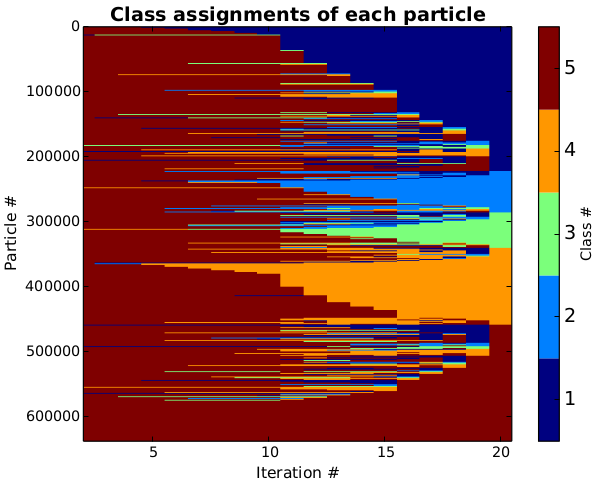
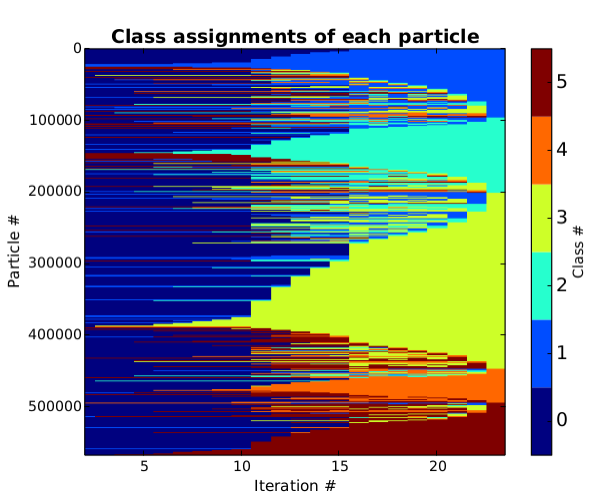
bug fix carpetplot

diff --git a/scripts/class-wiz.py b/scripts/class-wiz.py
@@ -127,14 +127,12 @@ print('Plots will be generated for the following columns:', checklistcol)
 ## Initial colorbar
 fig = plt.figure()
 ax1 = fig.add_axes([0.05, 0.80, 0.9, 0.15])
-
-cmap = plt.get_cmap('jet', int(classes))
-norm = matplotlib.colors.Normalize(vmin=1, vmax=int(classes)+1)
+cmap = plt.get_cmap('jet', int(classes)+1)
+norm = matplotlib.colors.Normalize(vmin=1, vmax=int(classes)+2)
 #ticks = np.arange(1, int(classes)+1)
 cb1 = matplotlib.colorbar.ColorbarBase(ax1, cmap=cmap, norm=norm, orientation='horizontal')
-
 #colorbar stuff
-labels = np.arange(1, classes+1)
+labels = np.arange(0, classes+2)
 #cb1 = plt.colorbar(mat, ticks=labels)
 loc = labels + .5
 cb1.set_ticks(loc)
@@ -171,6 +169,8 @@ for datafile in iterationlist:
      			for l in f:
 	 			if '@' in l:
 					groupnum = l.split()[classcolumn]	## Class number
+					if int(groupnum) > int(classes):
+							groupnum = 0
 					micrograph = l.split()[miccolumn]  	## Micrograph name
 					particlename = l.split()[particolumn] 	## Particle Name
 
@@ -241,16 +241,16 @@ if len(set(rotation[0])) == 1:
 if len(set(rotation[0])) > 1:
 
 #Rotational
-	cmap = plt.get_cmap('jet', int(classes))
+	cmap = plt.get_cmap('jet', int(classes)+1)
 	plt.figure(num=None, dpi=80, facecolor='white')
 	plt.title('RotationalAccuracy', fontsize=16, fontweight='bold')
 	plt.xlabel('Iteration #', fontsize=13)
 	plt.ylabel('RotationalAccuracy', fontsize=13)
 	plt.grid()
-	colors = np.arange(0, int(classes))
+	colors = np.arange(1, int(classes)+1)
 	d = 0;
 	for c, r in zip(colors, rotation):
-		d = c+1
+		d = c
 		plt.plot(r[:], linewidth=3, color=cmap(c), label='Class %s'%d)
 	ticks = np.arange(2, iterations)
 	plt.xlim(2, iterations)
@@ -259,16 +259,16 @@ if len(set(rotation[0])) > 1:
 	#plt.show()
 
 #Translational
-	cmap = plt.get_cmap('jet', int(classes))
+	cmap = plt.get_cmap('jet', int(classes)+1)
 	plt.figure(num=None, dpi=80, facecolor='white')
 	plt.title('TranslationalAccuracy', fontsize=16, fontweight='bold')
 	plt.xlabel('Iteration #', fontsize=13)
 	plt.ylabel('TranslationalAccuracy', fontsize=13)
 	plt.grid()
-	colors = np.arange(0, int(classes))
+	colors = np.arange(1, int(classes)+1)
 	d=0
 	for c, t in zip(colors, translation):
-		d = c+1;
+		d = c;
 		plt.plot(t[:], linewidth=3, color=cmap(c), label='Class %s'%d)
 	ticks = np.arange(2, iterations)
 	plt.xlim(2, iterations)
@@ -284,45 +284,44 @@ groupnumarraysorted = groupnumarray[sortindices]
 
 ### Heat map of group sizes
 H = groupnumarraysorted[:,:]
-cmap = plt.get_cmap('jet', int(classes))
-norm = matplotlib.colors.Normalize(vmin=1, vmax=int(classes)+1)
+cmap = plt.get_cmap('jet', int(classes)+1)
+norm = matplotlib.colors.Normalize(vmin=0, vmax=int(classes)+1)
 plt.figure(num=None, dpi=120, facecolor='white')
 plt.title('Class assignments of each particle', fontsize=16, fontweight='bold')
 plt.xlabel('Iteration #', fontsize=13)
 plt.ylabel('Particle #', fontsize=13)
 mat = plt.imshow(H,aspect='auto', interpolation="nearest", cmap=cmap, norm=norm)
 #colorbar stuff
-labels = np.arange(1, classes+1)
+labels = np.arange(0, classes+2)
+#labels[-1] = 'unassigned'
 cb1 = plt.colorbar(mat, ticks=labels)
 loc = labels + .5
+#print loc
 cb1.set_ticks(loc)
 cb1.set_ticklabels(labels)
 cb1.ax.tick_params(labelsize=16)
 cb1.set_label('Class #')
-
 plt.xlim(2, iterations-0.5)
 pdf.savefig()
 #plt.show()
 
 ### Plot heat map of the last 5 iterations (close-up)
 H = groupnumarraysorted[:,:]
-cmap = plt.get_cmap('jet', int(classes))
-norm = matplotlib.colors.Normalize(vmin=1, vmax=int(classes)+1)
+cmap = plt.get_cmap('jet', int(classes)+1)
+norm = matplotlib.colors.Normalize(vmin=0, vmax=int(classes)+1)
 plt.figure(num=None, dpi=120, facecolor='white')
 plt.title('Class assignments of each particle - last 5 iterations', fontsize=16, fontweight='bold')
 plt.xlabel('Iteration #', fontsize=13)
 plt.ylabel('Particle #', fontsize=13)
 mat = plt.imshow(H, aspect='auto', interpolation="nearest", cmap=cmap, norm=norm)
-
 #colorbar stuff
-labels = np.arange(1, classes+1)
+labels = np.arange(0, classes+2)
 cb1 = plt.colorbar(mat, ticks=labels)
 loc = labels + .5
 cb1.set_ticks(loc)
 cb1.set_ticklabels(labels)
 cb1.ax.tick_params(labelsize=16)
 cb1.set_label('Class #')
-
 plt.xlim(iterations-6.5, iterations-0.5)
 pdf.savefig()
 #plt.show()
@@ -481,11 +480,11 @@ for key2, value2 in fincolarray.iteritems():
 
 		if plottype == 'bar':
 			n, bins, patches = plt.hist(temp, range=(min(rangeval),max(rangeval)), histtype='bar')
-			cmap = plt.get_cmap('jet', classes)
-			colors = np.arange(0, classes)
+			cmap = plt.get_cmap('jet', classes+1)
+			colors = np.arange(0, classes+1)
 			for c, p in zip(colors, patches):
 				#d = c+1
-				d = int(histocolarray.keys()[c])		#recolor based on class HACK
+				d = int(histocolarray.keys()[c])+1		#recolor based on class HACK
 				plt.setp(p, 'facecolor', cmap(d))
 
 			#plt.colorbar(ticks=np.arange(1, int(classes)+1))
